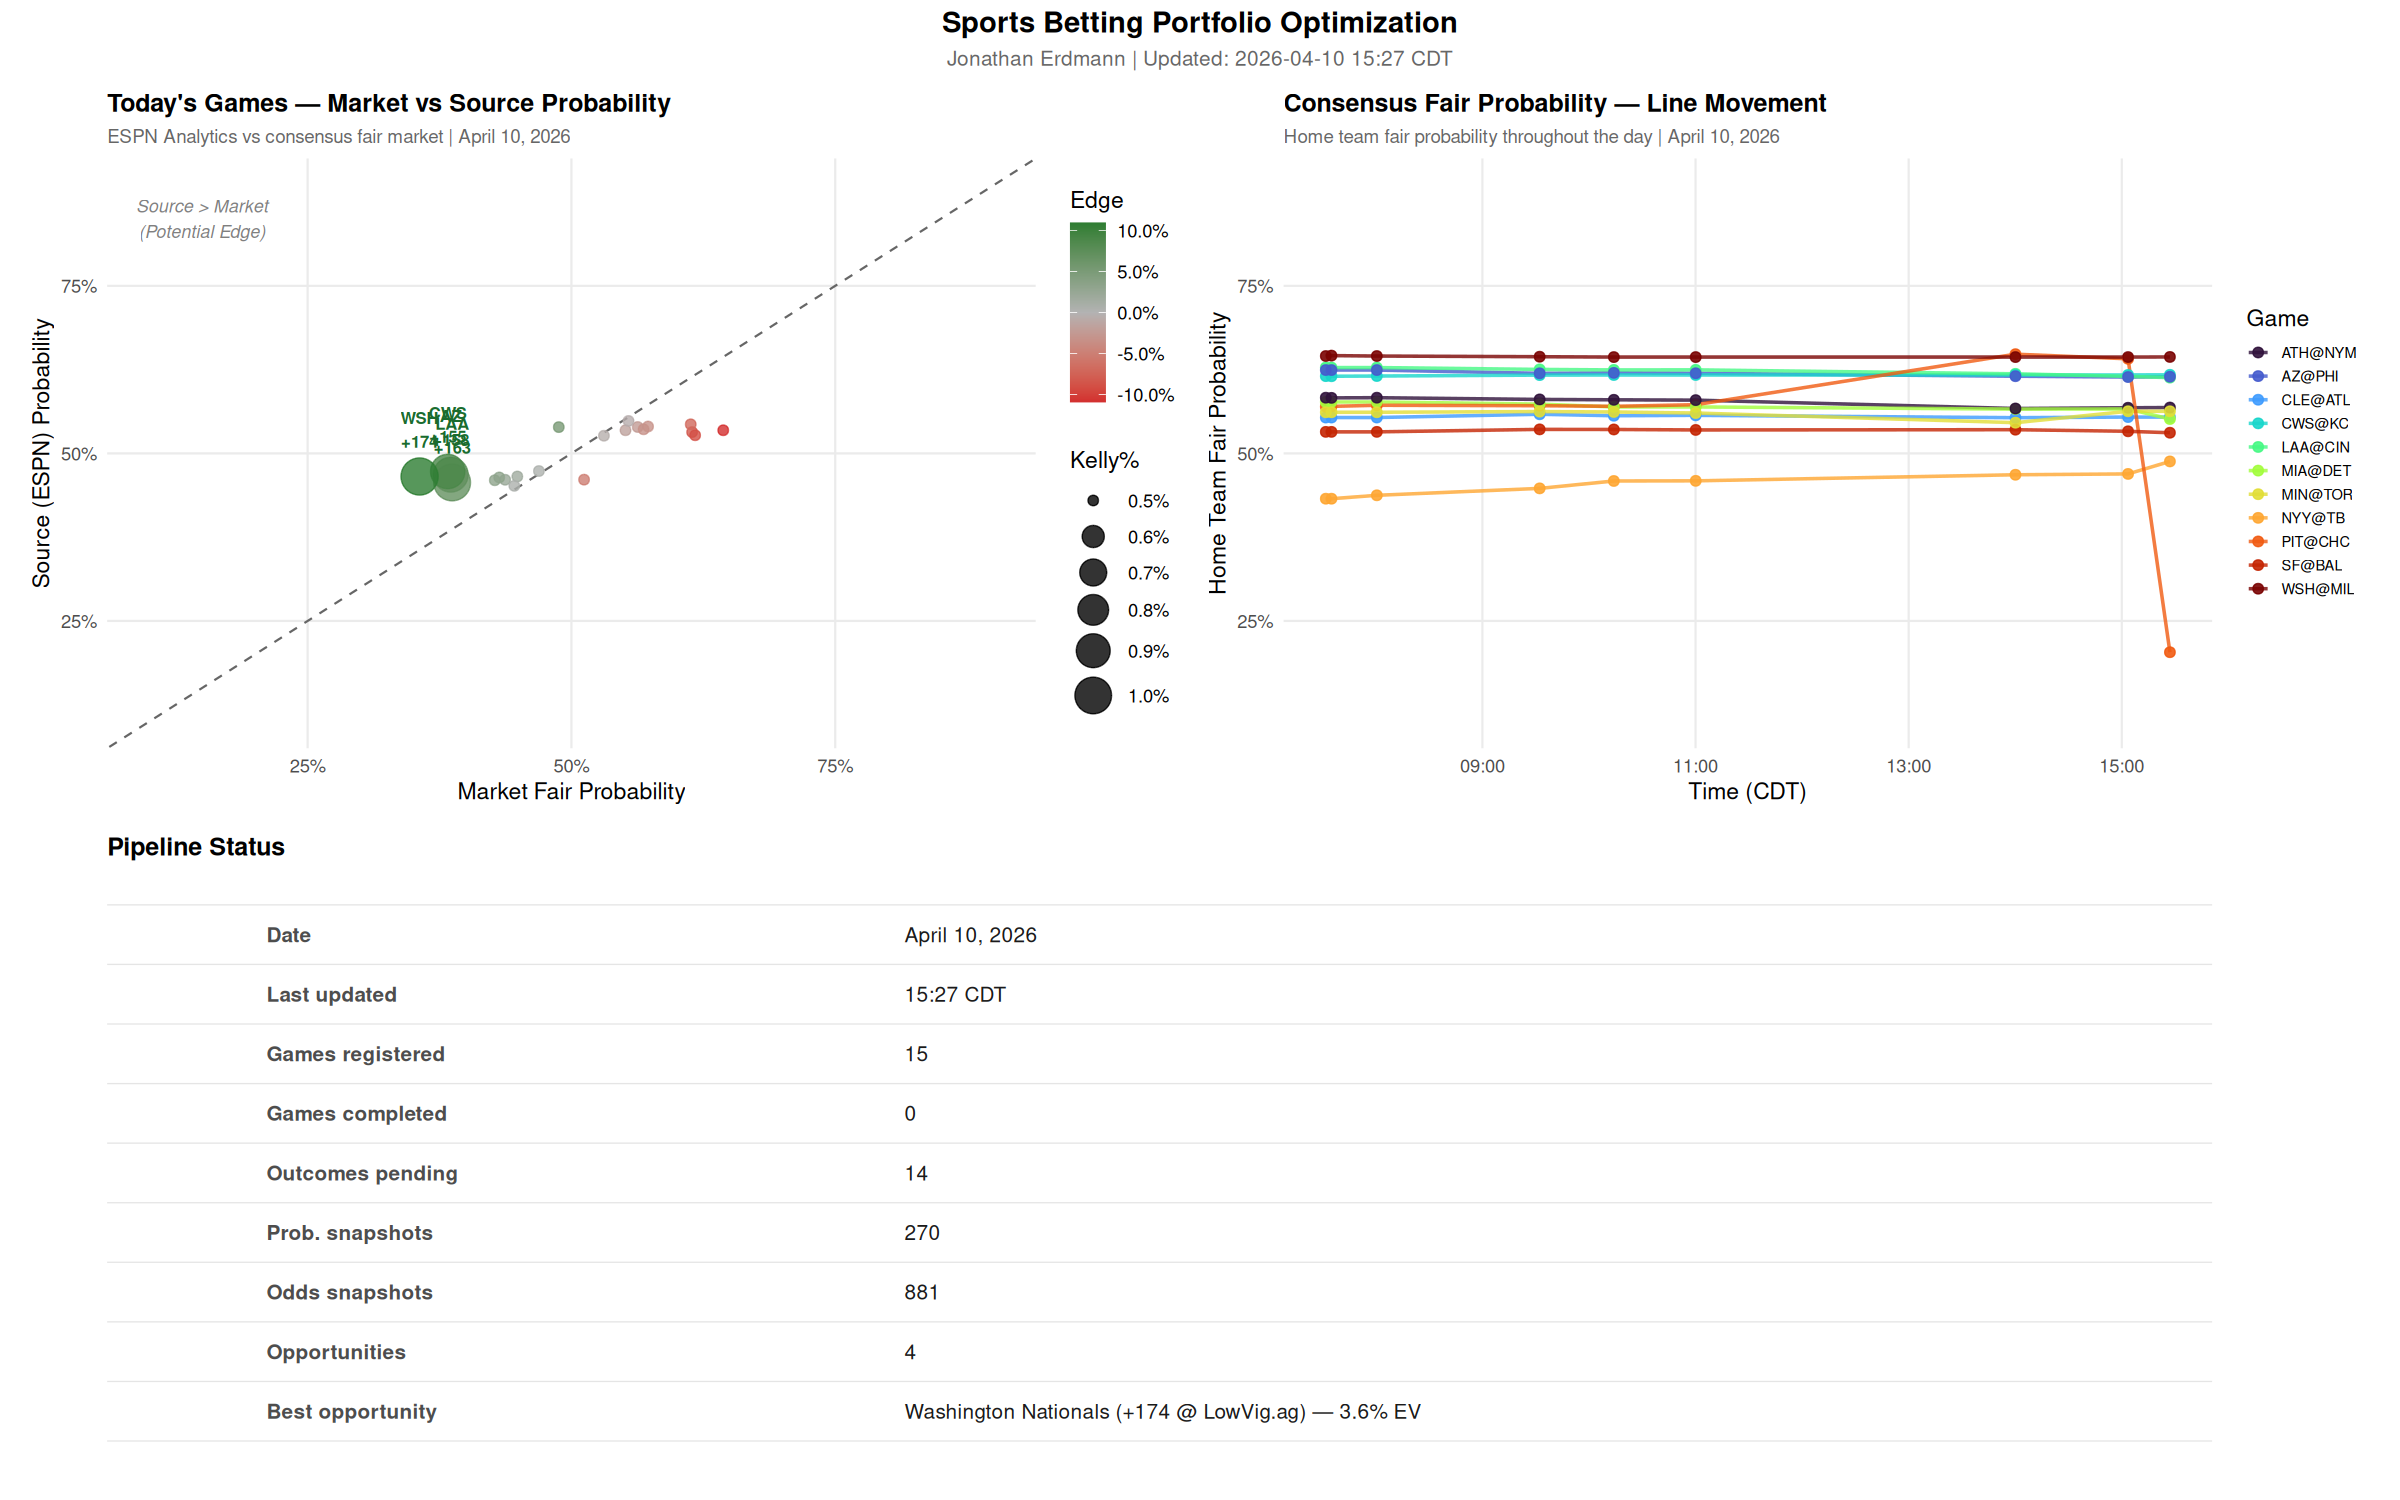
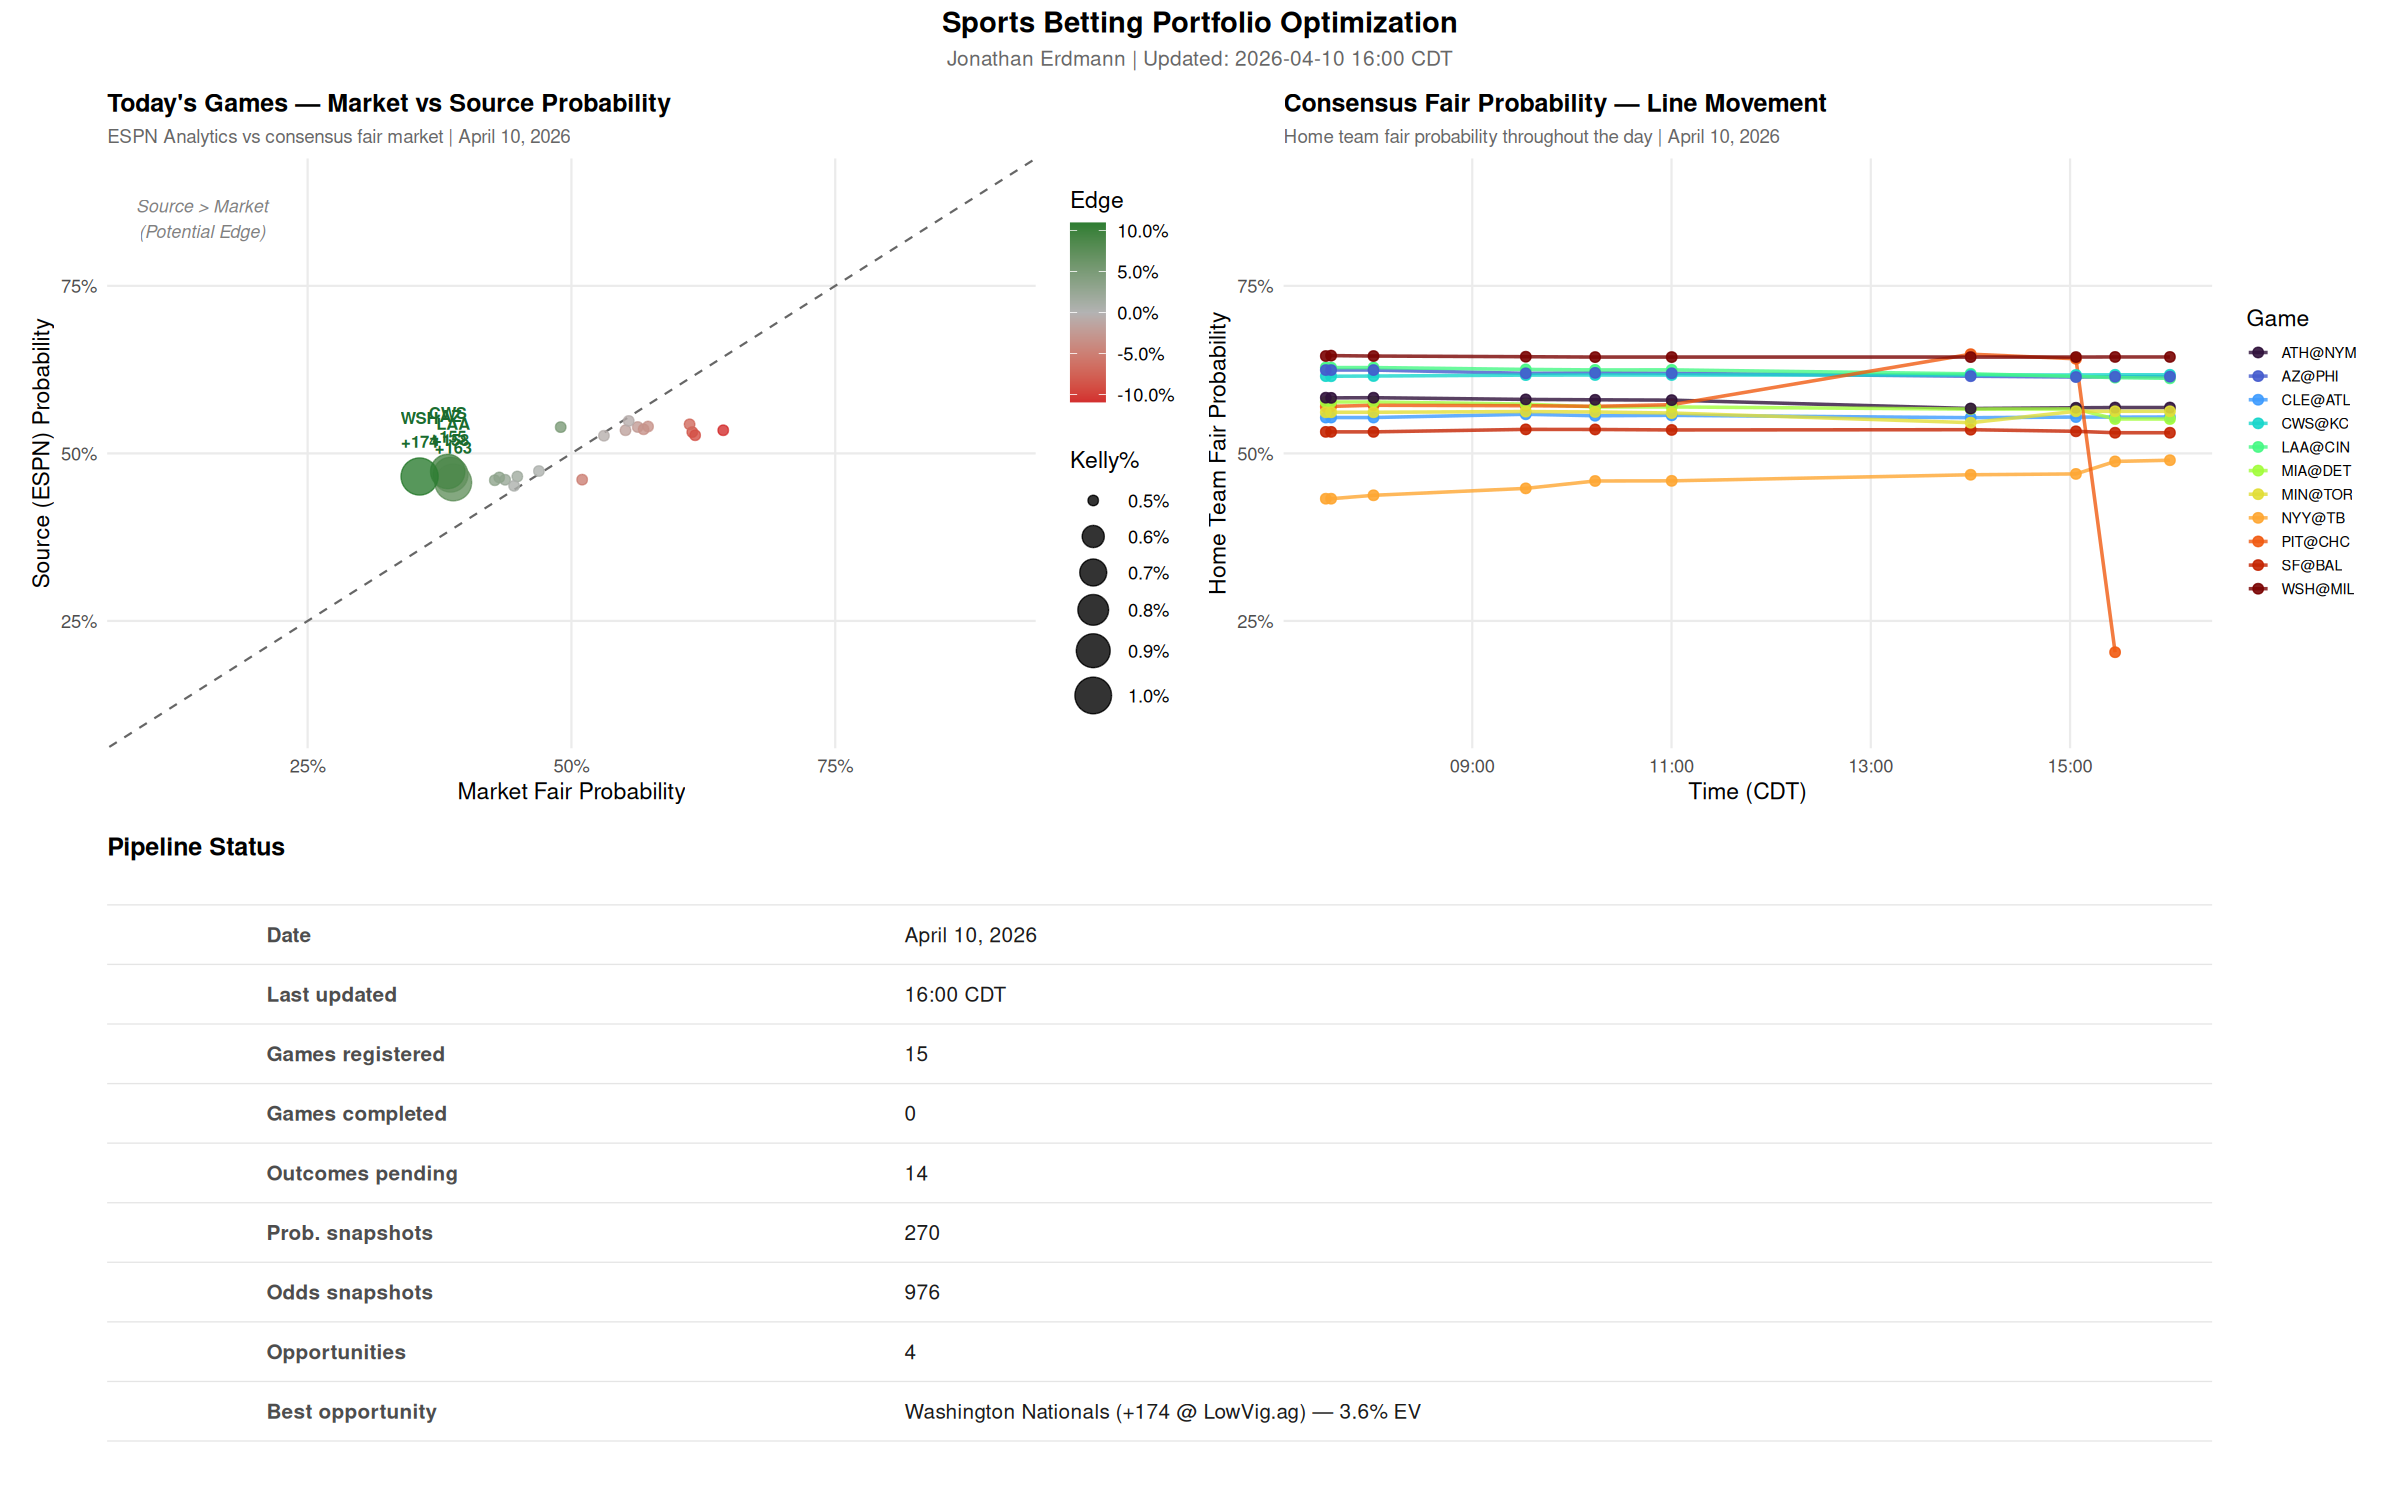
Update dashboard: 2026-04-10 16:00

diff --git a/projects/portfolio-optimization/dashboard.md b/projects/portfolio-optimization/dashboard.md
@@ -6,7 +6,7 @@ permalink: /projects/portfolio-optimization/dashboard/
 
 ## Daily Pipeline Dashboard
 
-**Last updated:** April 10, 2026 15:27 CDT
+**Last updated:** April 10, 2026 16:00 CDT
 
 ---
 
